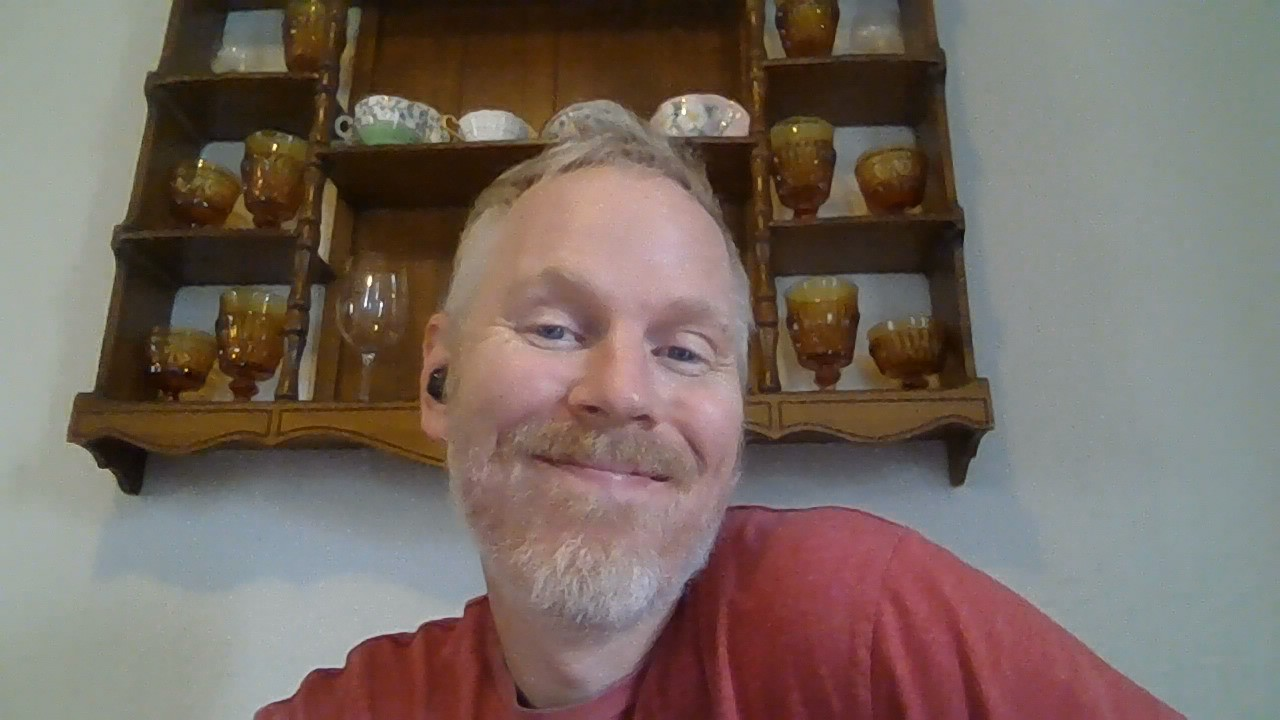
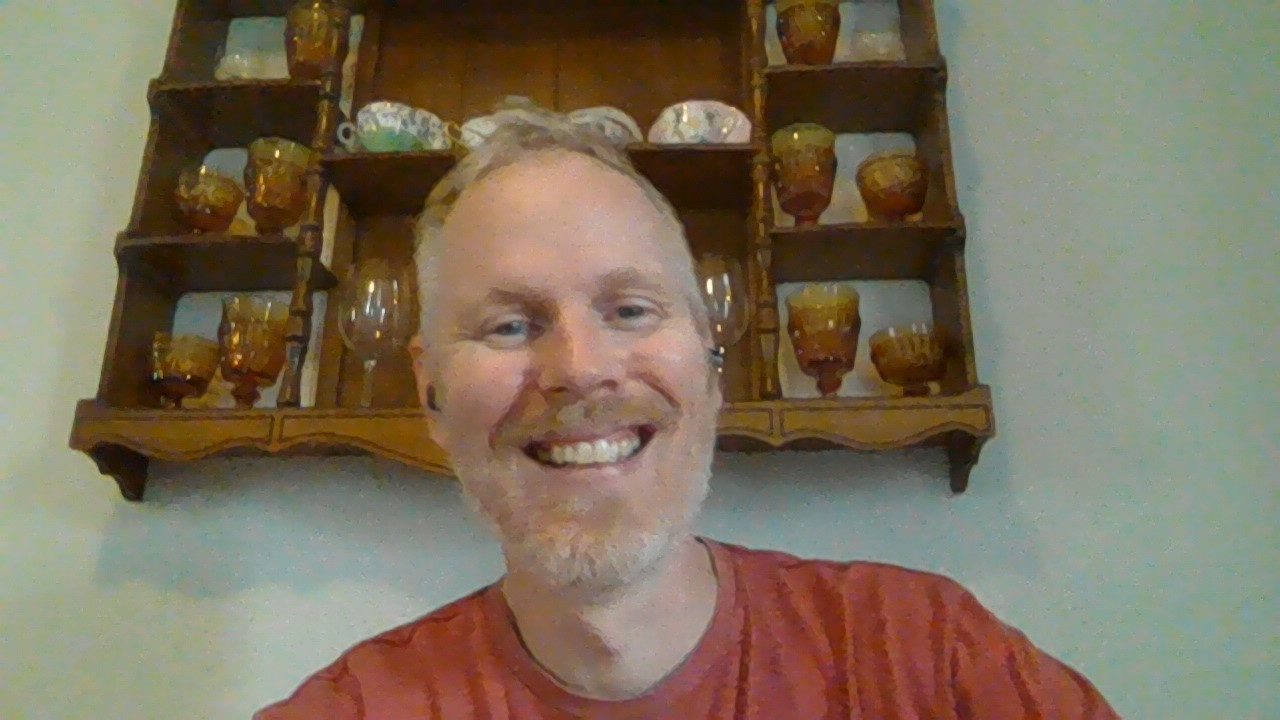
rotatte use rimg bug

Changed region(s): [[0.0312, 0.0, 0.9375, 1.0], [0.0938, 0.7944, 0.1562, 0.8556], [0.0312, 0.825, 0.0625, 0.8556]]

diff --git a/routes/userFunctions/userFunctions.js b/routes/userFunctions/userFunctions.js
@@ -9,7 +9,8 @@ const config = require('../../config/config'); // Import config if you're using 
 const lib = require('../logFunctions/logFunctions')
 const { ObjectId } = require('mongodb');
 const fs = require('fs')
-
+const fsp = require('fs').promises
+const sharp = require('sharp')
 // Function to handle user data upload
 async function userDataUpload(req, res) {
   try {
@@ -52,79 +53,87 @@ res.redirect(`/viewBuy/?_id=${referredBy}`); // Redirect to the user setup page 
 }
 // Function to handle user headshot upload
 const userImgUpload = async (req, res) => {
+  let referredBy; // Declare referredBy variable outside the try block
   try {
     console.log('Starting user image upload process.', req.file);
     const db = getDb();
     const user = req.user;
     const collection = db.collection('users');
-    
-    let referredBy; // Declare referredBy variable here
+
     if (req.body.card_id) {
       referredBy = req.body.card_id;
       console.log(`referred by: ${referredBy}`);
     }
-    
+
     const uploadDirectory = path.join(__dirname, '../../public/images/uploads'); // Directory where files are initially uploaded
     const headshotDirectory = path.join(__dirname, '../../public/images/userHeadshots'); // Directory where final images will be stored
-    
+
     if (req.files && req.files.userImg) {
       const uploadedFile = req.files.userImg[0];
       const originalFilePath = path.join(uploadDirectory, uploadedFile.filename);
-      
-      // Use the file path directly
+
+      // Validate file type (allow only JPG, JPEG, and PNG)
+      const allowedFileTypes = ['image/jpeg', 'image/jpg', 'image/png'];
+      if (!allowedFileTypes.includes(uploadedFile.mimetype)) {
+        if (!referredBy) {
+          req.flash('error', 'Can only use JPG, JPEG, or PNG.');
+          return res.redirect('/');
+        } else {
+          req.flash('error', 'Can only use JPG, JPEG, or PNG.');
+          return res.redirect(`/viewBuy/?_id=${referredBy}`);
+        }
+      }
+
+      // Use Sharp only if the file type is allowed
       const headshotPath = `${headshotDirectory}/${uploadedFile.filename}`;
       const existingHeadshotPath = path.join(headshotDirectory, user.userImg || '');
       if (fs.existsSync(existingHeadshotPath) && user.userImg) {
         await fs.promises.unlink(existingHeadshotPath);
         console.log('Existing headshot deleted.');
       }
-      // Trigger image resizing
+
+      // Trigger image resizing only if the file type is allowed
       const resizedImagePath = await resizeAndCropImage(
         originalFilePath, // Original file path
         headshotDirectory, // Output directory for final image
         uploadedFile.filename // Output filename
-        );
-        
-        // Delete the original file from the uploads directory
-        fs.unlink(originalFilePath, (err) => {
-          if (err) {
-            console.error('Error deleting file:', err);
-            // Handle error
-          } else {
-            console.log('File deleted successfully');
-          }
-        });
-        
-        
-        
-        
-        // Update the user's headshot path in the database
-        const result = await collection.updateOne(
-          { _id: user._id },
-          { $set: { userImg: headshotPath.replace(/^.*[\\\/]/, '') } } // Storing only the filename in the database
-          );
-        //  console.log(result);
-        
-          console.log(`user updated headshot ${user.email}`)
-          
-          req.flash('success', 'Headshot updated successfully.');
+      );
+
+      // Delete the original file from the uploads directory
+      fs.unlink(originalFilePath, (err) => {
+        if (err) {
+          console.error('Error deleting file:', err);
+          // Handle error
         } else {
+          console.log('File deleted successfully');
+        }
+      });
+
+      // Update the user's headshot path in the database
+      const result = await collection.updateOne(
+        { _id: user._id },
+        { $set: { userImg: headshotPath.replace(/^.*[\\\/]/, '') } } // Storing only the filename in the database
+      );
+
+      console.log(`User updated headshot ${user.email}`);
+      req.flash('success', 'Headshot updated successfully.');
+    } else {
       console.log('No file uploaded.');
       req.flash('info', 'No file uploaded.');
     }
-    
+
     if (referredBy) {
       res.redirect(`/viewBuy/?_id=${referredBy}`);
     } else {
-      res.redirect('/'); // Handle the case when referredBy is not defined
+      res.redirect('/');
     }
   } catch (err) {
     console.log('Error in user image upload:', err);
     req.flash('error', 'An error occurred while updating the headshot.');
     if (referredBy) {
-      res.redirect(`/viewBuy/?_id=${referredBy}`);
+      res.redirect(`/`);
     } else {
-      res.redirect('/'); // Handle the error case when referredBy is not defined
+      res.redirect('/');
     }
   }
 };
@@ -193,11 +202,34 @@ const submitTicket = async (req, res) => {
 };
 
 
+async function saveRotation(req, res) {
+  try {
+    const { rotation, file } = req.body;
 
+    // Directory where final images will be stored
+    const headshotDirectory = path.join(__dirname, '../../public/images/userHeadshots/');
 
+    // Filepath of the image to be rotated
+    const imagePath = path.join(headshotDirectory, file);
+
+    // Load the image using Sharp
+    const imageBuffer = await sharp(imagePath).rotate(rotation).toBuffer();
+
+    // Remove the original image file
+   // await fs.unlink(imagePath);
+
+    // Save the rotated image back to the same file
+    await fsp.writeFile(imagePath, imageBuffer);
+
+    res.status(200).json({ message: 'Rotation saved successfully' });
+  } catch (error) {
+    console.error('Error saving rotation:', error);
+    res.status(500).json({ error: 'Failed to save rotation' });
+  }
+}
 
 router.post('/userImgUpload', upload, userImgUpload);
 
 router.post('/userDataUpload', userDataUpload)
 
-module.exports = { userDataUpload, userImgUpload, submitTicket };
+module.exports = { userDataUpload, userImgUpload, submitTicket ,saveRotation};

diff --git a/routes/index.js b/routes/index.js
@@ -13,7 +13,8 @@ const {ticketUpdate,ticketDelete} = require('./adminFunctions/ticketFunctions')
 const {resetPasswordRequest, resetPassword, handleResetPasswordGet} = require('../plugins/passport/passwordReset')
 const {isAdmin,uploadCard, deleteCard, getFonts, uploadFonts, updateCard} = require('./adminFunctions/adminFunctions')
 //const userFunctionsRouter = require('./routes/userFunctions/userFunctions'); // Adjust the path as needed
-const { userImgUpload, userDataUpload, submitTicket } = require('./userFunctions/userFunctions');
+const { userImgUpload, userDataUpload, submitTicket, saveRotation } = require('./userFunctions/userFunctions');
+const {updateBanned}=require('./securityFunctions/updateBanned')
 const gatherIp = async (req,res,next)=>{
   let userIp = req.ip
   console.log(`user's IP: ${userIp}`)
@@ -26,12 +27,15 @@ router.post('/userImgUpload', upload, userImgUpload);
 router.post('/checkouts', checkouts);
 router.use('/finalizeOrder',finalizeOrder)
 router.post('/userDataUpload', userDataUpload)
+router.post('/saveRotation',saveRotation)
 router.post('/submitTicket', submitTicket);
 router.post('/reset-password-request', resetPasswordRequest)
 router.post('/passwordReset/:token', resetPassword)
 router.get('/reset-password/:token', handleResetPasswordGet);
 router.post('/ticketUpdate', ticketUpdate);
 router.post('/ticketDelete', ticketDelete);
+router.post('/updateBanned', updateBanned)
+
 //router.post('/ticketNotify', ticketNotify);
 
 

diff --git a/routes/adminFunctions/adminFunctions.js b/routes/adminFunctions/adminFunctions.js
@@ -80,7 +80,7 @@ const uploadCard = async (req, res) => {
     await collection.insertOne(cardData);
 
     req.flash('success', 'Card uploaded successfully.');
-    lib('new card made:', 'no errors', cardData, 'cards.txt');
+    lib('new card made:', 'no errors', cardData, 'cards.json','data');
     res.redirect('/admin');
   } catch (err) {
     console.error(err);
@@ -129,17 +129,17 @@ const deleteCard = async (req, res) => {
     const result = await collection.deleteOne({ "_id": id });
 
     if (result.deletedCount === 1) {
-      lib('card deleted:', 'no errors', { cardID, userName }, 'cards.txt');
+      lib('card deleted:', null, { cardID, userName }, 'cards.json','data');
       req.flash('success', 'Card deleted successfully.');
       res.redirect('/admin');
     } else {
-      lib('card not found:', 'no errors', { cardID, userName }, 'cards.txt');
+      lib('card not found:', 'error: card not found', { cardID, userName }, 'cards.data','data');
       req.flash('error', 'Card not found.');
       res.redirect('/admin');
     }
   } catch (err) {
     console.error(err);
-    lib('error deleting a card:', 'error from lib():' + err, { cardID,userName }, 'cards.json','data');
+    lib('error deleting a card:', 'error:' + err, { cardID,userName }, 'cards.json','data');
     req.flash('error', 'An error occurred while deleting.');
     res.redirect('/admin');
   }

diff --git a/routes/adminFunctions/userControl.js b/routes/adminFunctions/userControl.js
@@ -1,0 +1,16 @@
+var express = require('express');
+var router = express.Router();
+const path = require('path')
+const upload = require('../../plugins/multer/setup');
+const { getDb } = require('../../plugins/mongo/mongo');
+const { ObjectId } = require('mongodb');
+const config = require('../../config/config'); // Import config if you're using it
+const lib = require('../logFunctions/logFunctions')
+const fs = require('fs');
+const { resetPasswordRequest } = require('../../plugins/passport/passwordReset');
+
+
+
+
+
+module.exports= router

diff --git a/plugins/nodemailer/setup.js b/plugins/nodemailer/setup.js
@@ -8,10 +8,13 @@ const emailHeaderUrl = `${config.baseUrl}images/logoTransp.png`;
 
 // Transporter setup
 const transporter = nodemailer.createTransport({
-    service: 'Gmail',
+    host: config.emailService,
+    port:587,
+    secure: false,
+    //requireTLS: true,
     auth: {
-        user: process.env.GMAIL_USER,
-        pass: process.env.GMAIL_PASS
+        user: process.env.NODEMAILER_USER,
+        pass: process.env.NODEMAILER_PASS
     }
 });
 

diff --git a/config/config.js b/config/config.js
@@ -7,6 +7,7 @@ const config =
     "DB_NAME":"rhsCards", 
     "baseUrl": process.env.BASE_URL,
     'ticketsEmail':"scott@w2marketing.biz",
+    "emailService":"smtp.office365.com",
     //end breakiung changes
     //**********
     //custom changes below

diff --git a/routes/securityFunctions/updateBanned.js b/routes/securityFunctions/updateBanned.js
@@ -1,0 +1,8 @@
+const express = require('express');
+const { getDb } = require('../../plugins/mongo/mongo');
+const { ObjectId } = require('mongodb');
+
+const updateBanned = async (req,res)=>{
+    
+}
+module.exports = {updateBanned}
